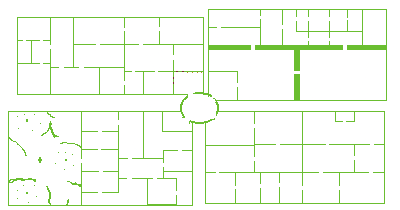
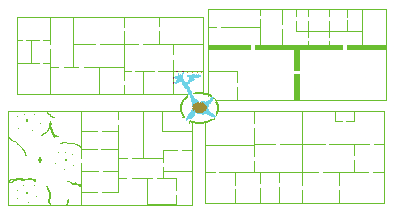
Ajout des différentes Tiles de Valentin, + petite modification de la map avec des tiles supplémentaires

Changed region(s): [[0.42, 0.3429, 0.54, 0.5714]]

diff --git a/isometric_motor.py b/isometric_motor.py
@@ -32,7 +32,13 @@ def is_door(pixel): # je pense faire un vérif sur seulement r et g, et me servi
     r,g,b = pixel # et pour l'orientation l'unité de b
     return r == 122 and (40 <= g <= 47)
 
+def is_rock(pixel):
+    r, g, b = pixel
+    return r == 158
 
+def is_grass(pixel):
+    r, g, b = pixel
+    return r == 109
 
 def image_to_matrix(path):
     image = load_image(path)
@@ -46,7 +52,7 @@ def image_to_matrix(path):
             # y_r = height - y - 1
             # x_r = width - x - 1
             # pour reverse la map dans les deux directions: remplacer par le x/y _reverse
-            if is_wall(pixel):
+            if is_wall(pixel): # sera remplacé à terme par is_rock ou autre
                 matrix[y][x][1] = 2
                 matrix[y][x][2] = 2
                 matrix[y][x][0] = 1
@@ -55,6 +61,14 @@ def image_to_matrix(path):
                 matrix[y][x][2] = 10
                 matrix[y][x][0] = 1
                 gameRegistry.add_lever(Lever(y,x,pixel[2])) # la couleur blue sert d'id
+            elif is_grass(pixel):
+                matrix[y][x][1] = 0
+                matrix[y][x][2] = 0
+                matrix[y][x][0] = 3
+            elif is_rock(pixel):
+                matrix[y][x][1] = 0
+                matrix[y][x][2] = 0
+                matrix[y][x][0] = 2
             elif is_door(pixel):
                 g = pixel[1]
                 # 40 = NE (ouverture NW), 41 = SW (ouverture NW), 42 = NW (ouverture NE), 43 = SE (ouverture NE)
@@ -191,10 +205,13 @@ class Map:
         """fonction qui affiche la map (tiles) ainsi que les deux joueurs"""
 
         tile_wall = pygame.image.load(
-            "assets/images/game/tileset/tilesettestwall.png"
+            "assets/images/game/tileset/cube_64_final_6.png"
         ).convert_alpha()
         tile_floor = pygame.image.load(
-            "assets/images/game/tileset/tilesettestfloor.png"
+            "assets/images/game/tileset/cube_64_final_4.png"
+        ).convert_alpha()
+        tile_grass = pygame.image.load(
+            "assets/images/game/tileset/cube_64_final_5.png"
         ).convert_alpha()
         levier_low = pygame.image.load(
             "assets/images/game/enigmes/levier_low.png"
@@ -253,6 +270,8 @@ class Map:
                             self.screen.blit(tile_floor, (screen_x, screen_y))
                         elif tile_nb == 2:
                             self.screen.blit(tile_wall, (screen_x, screen_y))
+                        elif tile_nb == 3:
+                            self.screen.blit(tile_grass, (screen_x, screen_y))
                         elif tile_nb == 10:
                             self.screen.blit(levier_high, (screen_x, screen_y))
                         elif tile_nb == 11:
